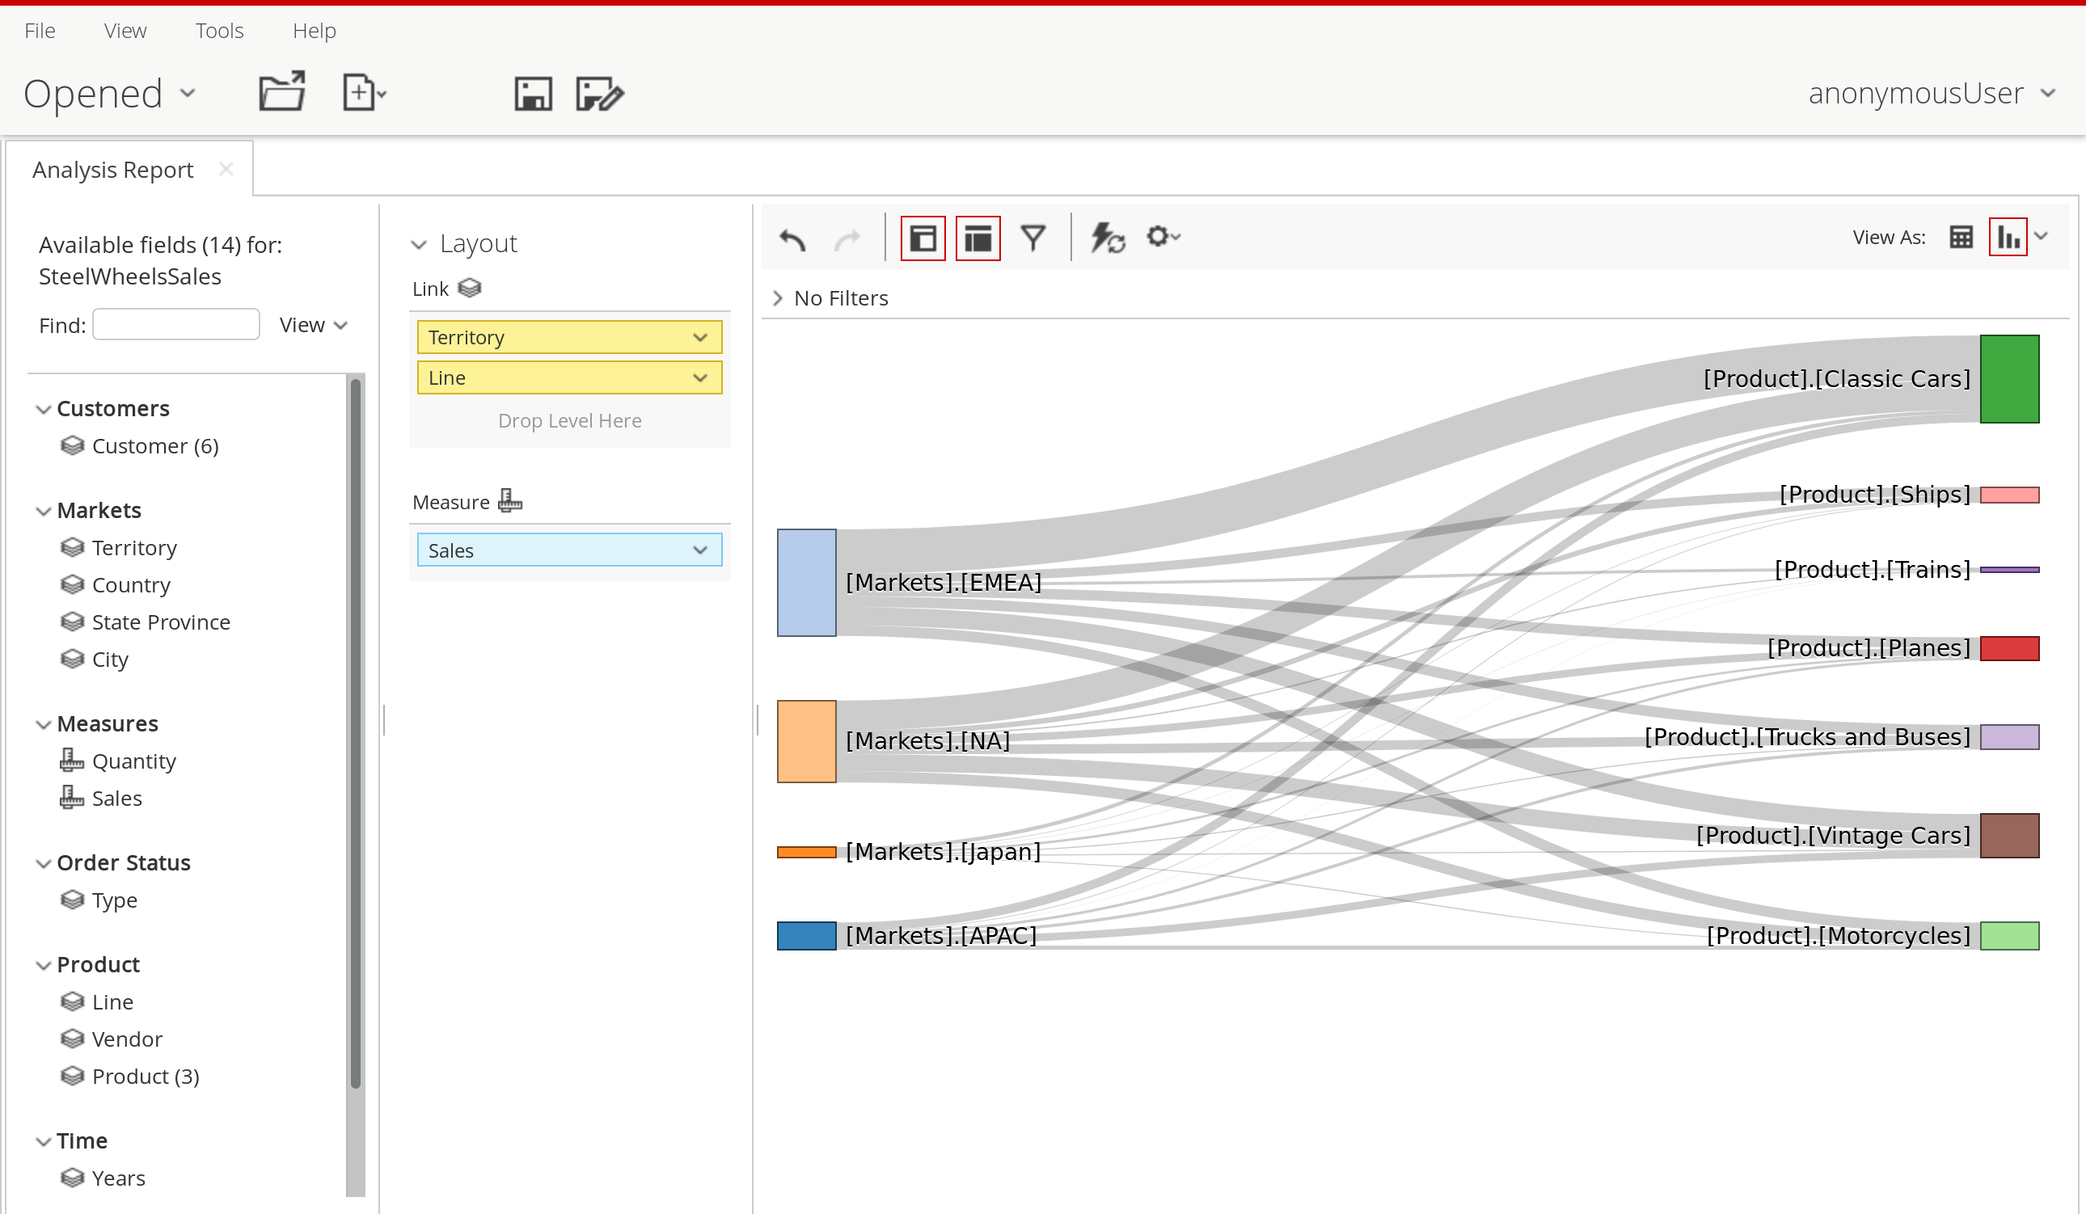
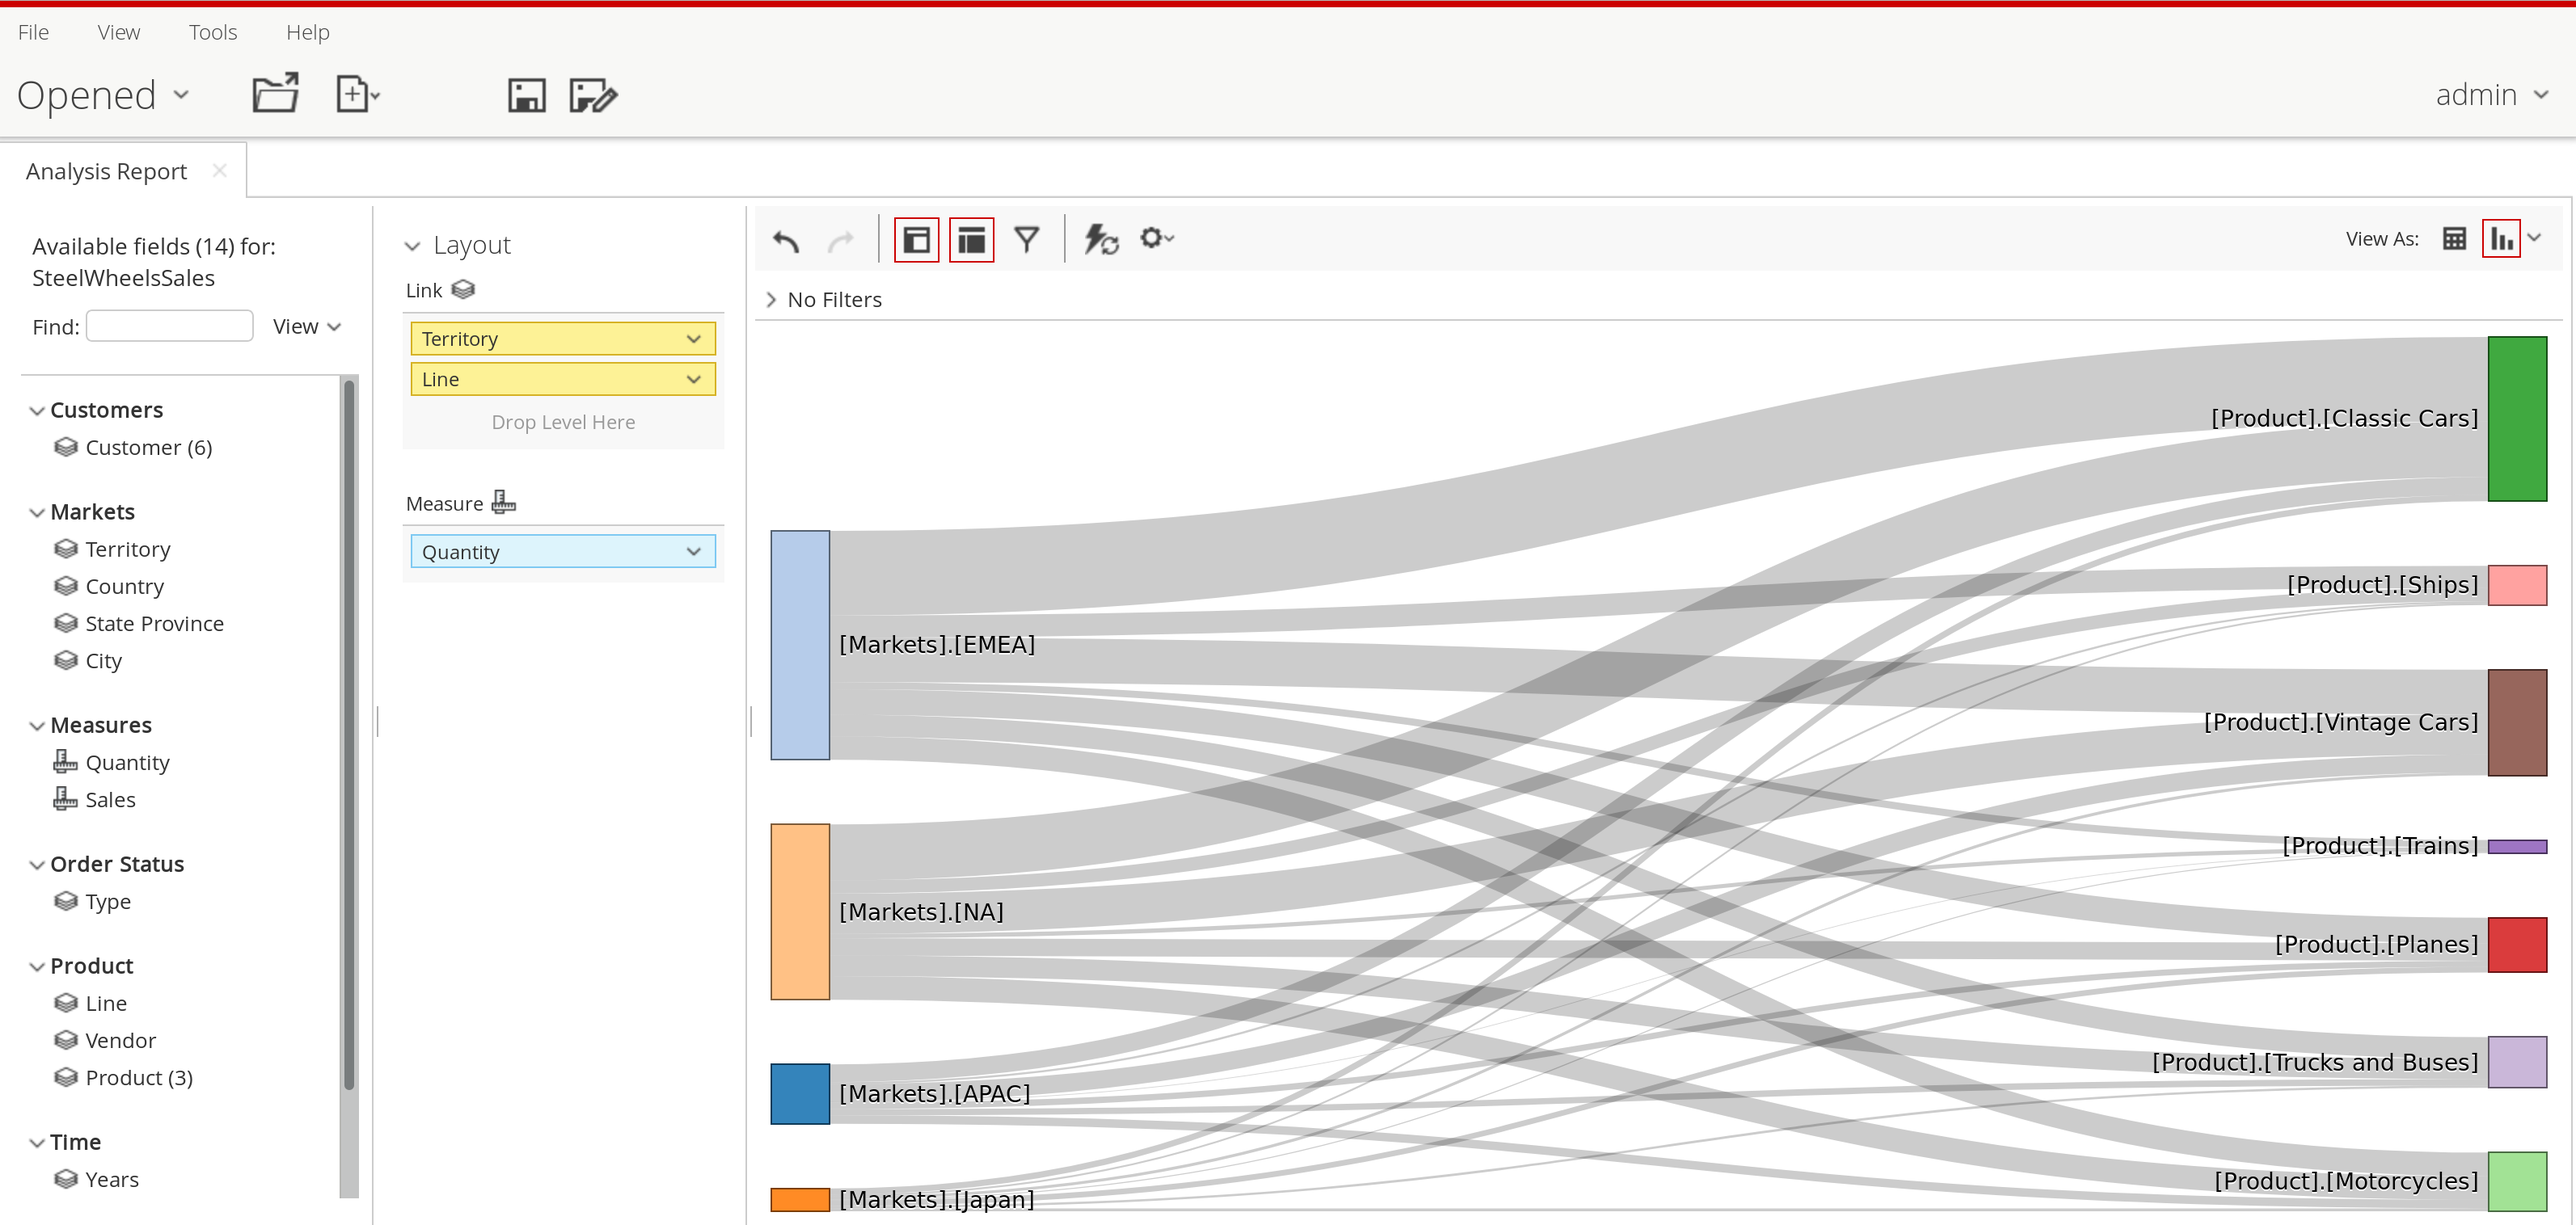
dynamic width and height info added

diff --git a/sample-files/pentaho-viz-api/d3-sankey/view-d3.js b/sample-files/pentaho-viz-api/d3-sankey/view-d3.js
@@ -79,6 +79,11 @@ define(
           // `this.domContainer` gives you access to the div
           // where your visualisation should be rendered  
           var container = d3.select(this.domContainer);
+
+          // get width and height of container that the viz will be rendered in
+          // https://stackoverflow.com/questions/21990857/d3-js-how-to-get-the-computed-width-and-height-for-an-arbitrary-element
+          const containerWidth = d3.select(this.domContainer).node().getBoundingClientRect().width;
+          const containerHeight = d3.select(this.domContainer).node().getBoundingClientRect().height;
           
           // ------- PART 2 ---------
           // the actual d3js implementation
@@ -95,8 +100,8 @@ define(
           var units = "Widgets";
 
           var margin = {top: 10, right: 10, bottom: 10, left: 10},
-              width = 800 - margin.left - margin.right,
-              height = 400 - margin.top - margin.bottom;
+              width = containerWidth - margin.left - margin.right,
+              height = containerHeight - margin.top - margin.bottom;
 
           var formatNumber = d3.format(",.0f"),    // zero decimal places
               format = function(d) { return formatNumber(d) + " " + units; },

diff --git a/_posts/2017-10-09-Pentaho-VizAPI.md b/_posts/2017-10-09-Pentaho-VizAPI.md
@@ -463,6 +463,19 @@ The data structure is still quite rich, so we extract only the required attribut
 
 Now that we have the data in the right structure, we can focus on generating the final visualisation. The code is based on [this example](http://bl.ocks.org/d3noob/c9b90689c1438f57d649) - Pedro Vale (thanks!) and I made some modifications to it. What follows is some brief overview skipping quite a few steps (since the purpose of this article is not to explain D3).
 
+> **Important**: Do not set a static width and height for your viz. It's simple to get the width and height from the container that will hold your viz and then use this to scale your viz. The code section shown below is the essence to this:
+
+```js
+// get width and height of container that the viz will be rendered in
+// https://stackoverflow.com/questions/21990857/d3-js-how-to-get-the-computed-width-and-height-for-an-arbitrary-element
+const containerWidth = d3.select(this.domContainer).node().getBoundingClientRect().width;
+const containerHeight = d3.select(this.domContainer).node().getBoundingClientRect().height;
+
+var margin = {top: 10, right: 10, bottom: 10, left: 10},
+width = containerWidth - margin.left - margin.right,
+height = containerHeight - margin.top - margin.bottom;
+```
+
 We set the **Sankey diagram properties** with the `d3.sankey()` function, which constructs a new Sankey generator with the default settings:
 
 ```js
